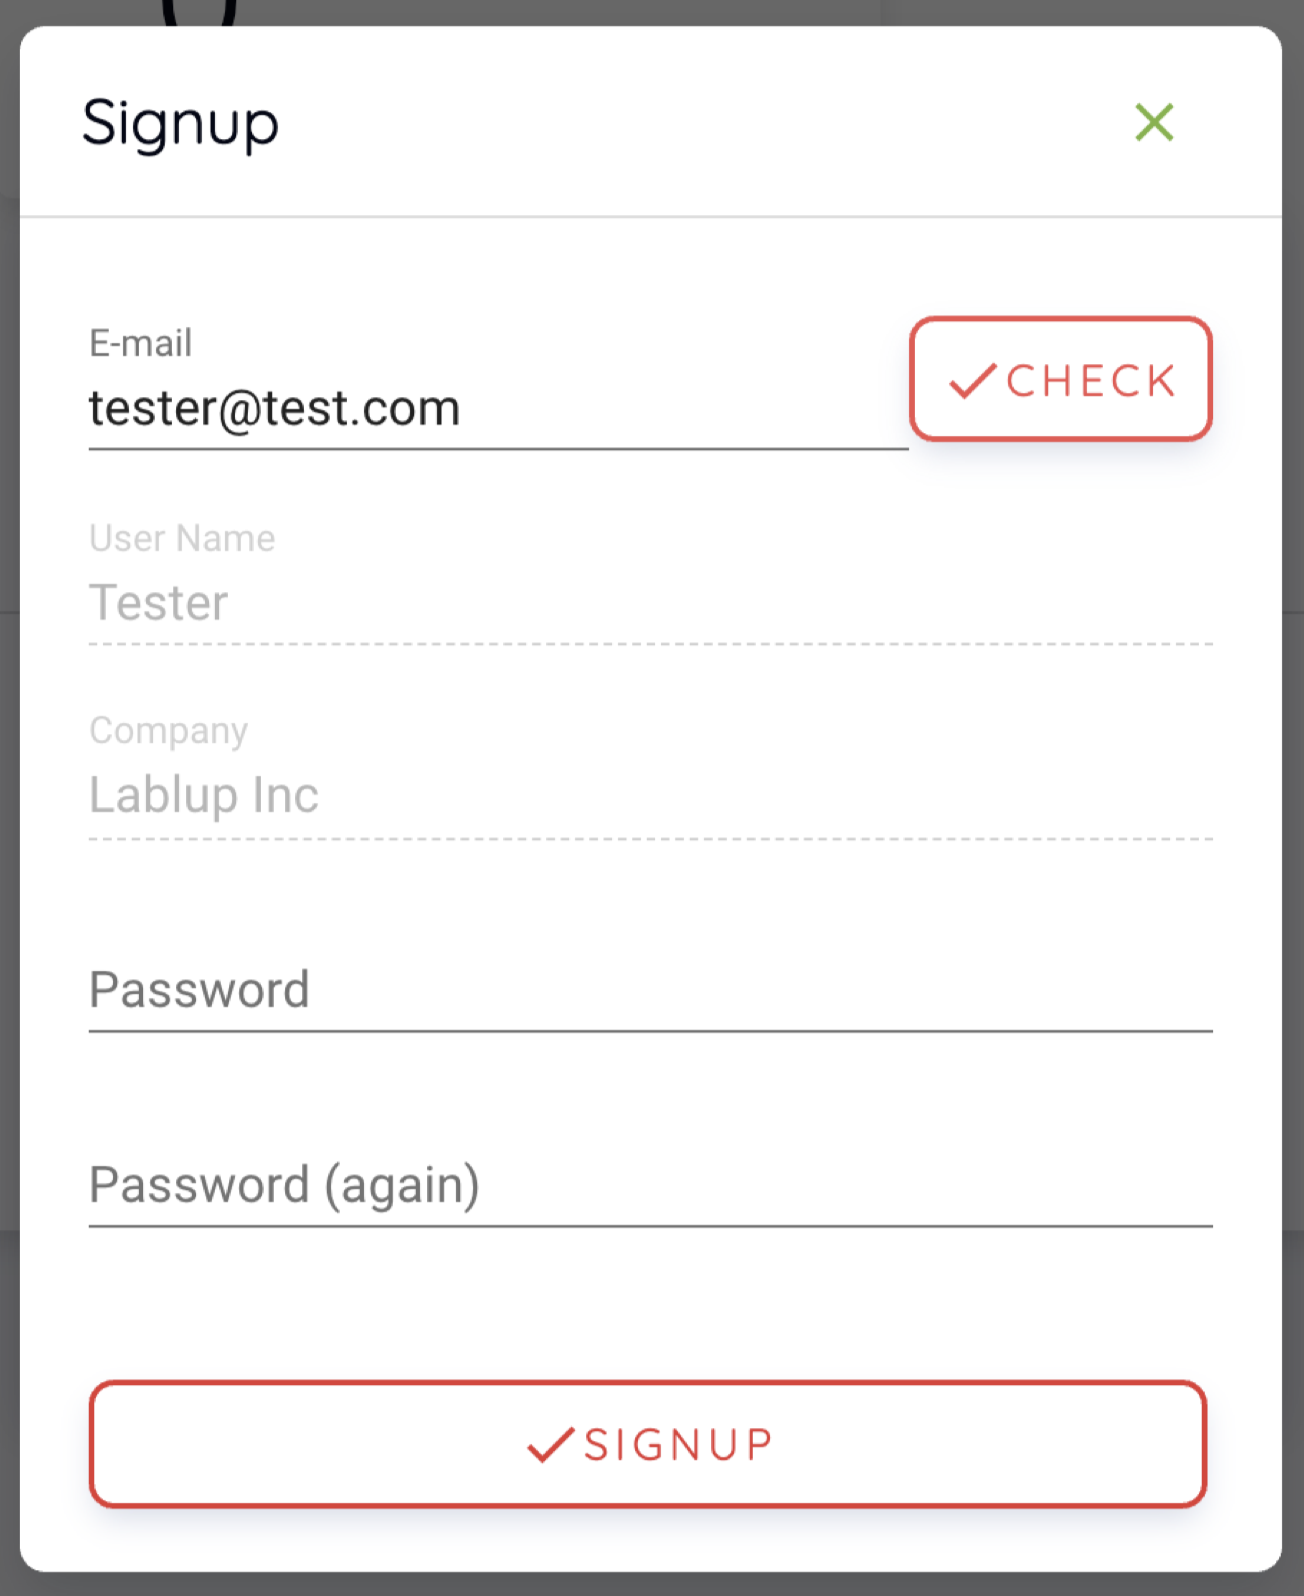
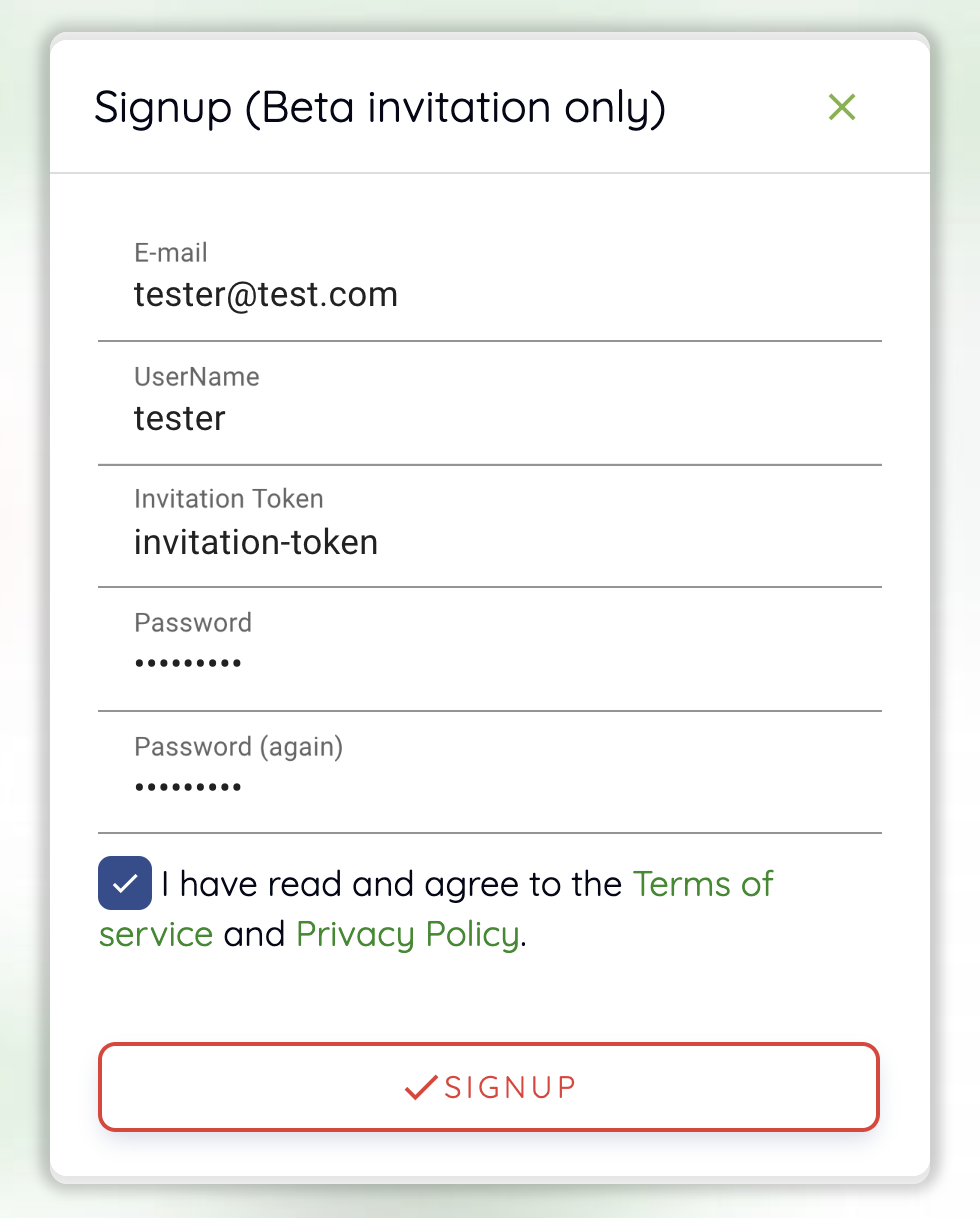
docs: update login/signup page

Changed region(s): [[0.0, 0.0, 1.0, 1.0], [0.8571, 0.0624, 0.9184, 0.0936], [0.2449, 0.3744, 0.2755, 0.4056]]

diff --git a/docs/login/login.rst b/docs/login/login.rst
@@ -6,21 +6,29 @@ Signup
 ------
 
 When you launch the GUI console, login dialog appears. If you haven't signed up
-yet, press the SIGN UP button on the top right.
+yet, press the SIGN UP button.
 
 .. image:: login_dialog.png
+   :width: 400
+   :align: center
    :alt: Login dialog
 
-After entering the e-mail, press the CHECK button to retrieve your information.
-(Depending on the server configuration and plug-in settings, you may not need a
-separate CHECK procedure.) Then enter your password and press the SIGNUP button
-to complete the signup. If successful, you will be returned to the initial
-login screen.
+Enter email, username, password, etc., read and agree to the Terms of Service /
+Privacy Policy, and click the SIGNUP button. Depending on your system settings,
+you may need to enter an invitation token to sign up.  Furthermore, an email may
+be sent to verify that the email is yours. If a verification email is sent, you
+will need to read the email and click the link inside to pass verification
+before you can log in with your account.
 
 .. image:: signup_dialog.png
    :width: 350
    :align: center
    :alt: Signup dialog
+
+.. note::
+   Depending on the server configuration and plugin settings, sign up by
+   anonymous user may not be allowed. In that case, please contact administrator
+   of your system.
 
 
 Login
@@ -36,9 +44,24 @@ entered.
 After login, you can check the information of the current resource usage in
 the Summary tab.
 
-You can logout by clicking the Exit icon in the upper right corner.
+Buy clicking the icon in the upper-right corner, you will see sub menus. You
+can logout by selecting the Log Out menu.
 
 .. image:: signout_button.png
-   :width: 400
+   :width: 300
+   :align: center
+   :alt: Signout button
+
+
+When you forgot your password
+-----------------------------
+If you have forgotten your password, you can click the CHANGE PASSWORD button on
+the login panel to email a link to change password. You can change your password
+by reading and following the instruction. Depending on the server settings, the
+password change feature may be disabled. In this case, contact the
+administrator.
+
+.. image:: forgot_password_panel.png
+   :width: 300
    :align: center
    :alt: Signout button
